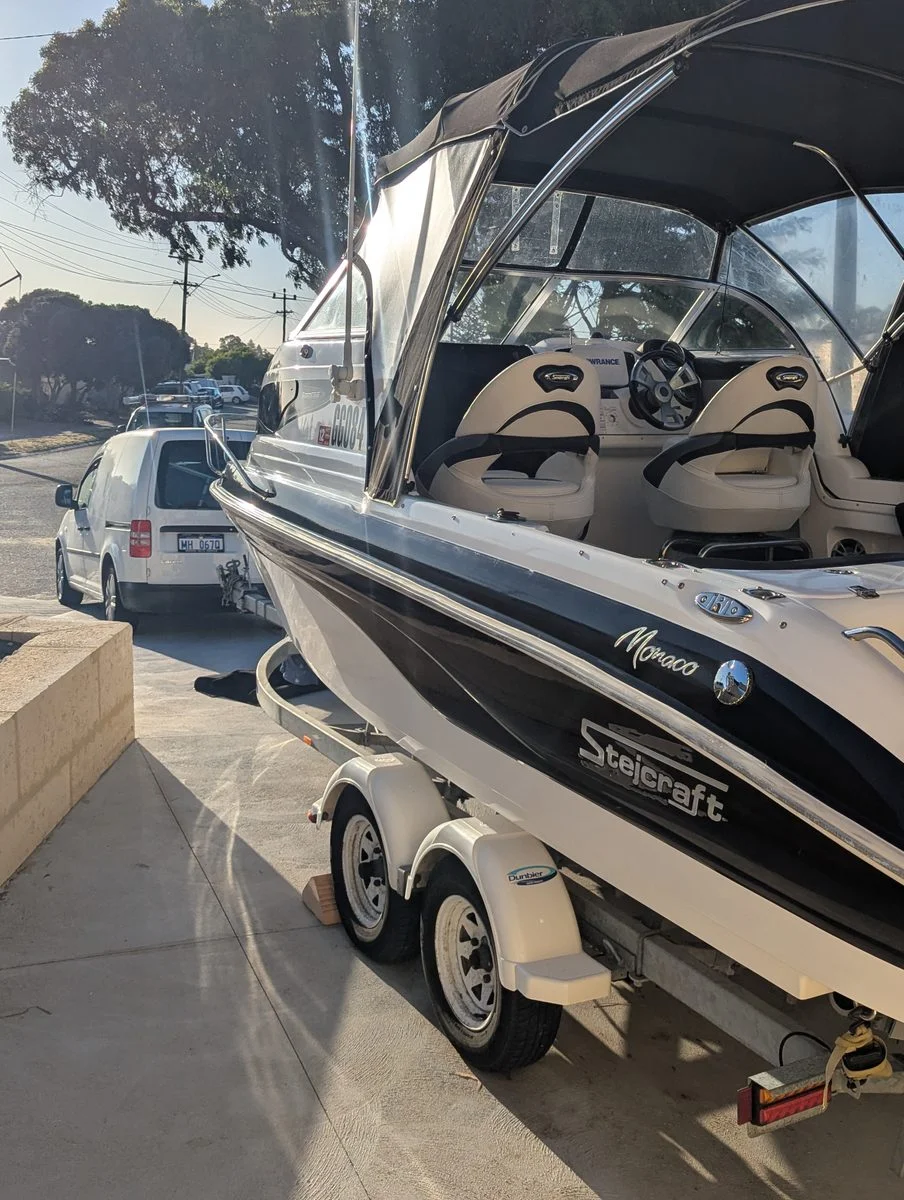
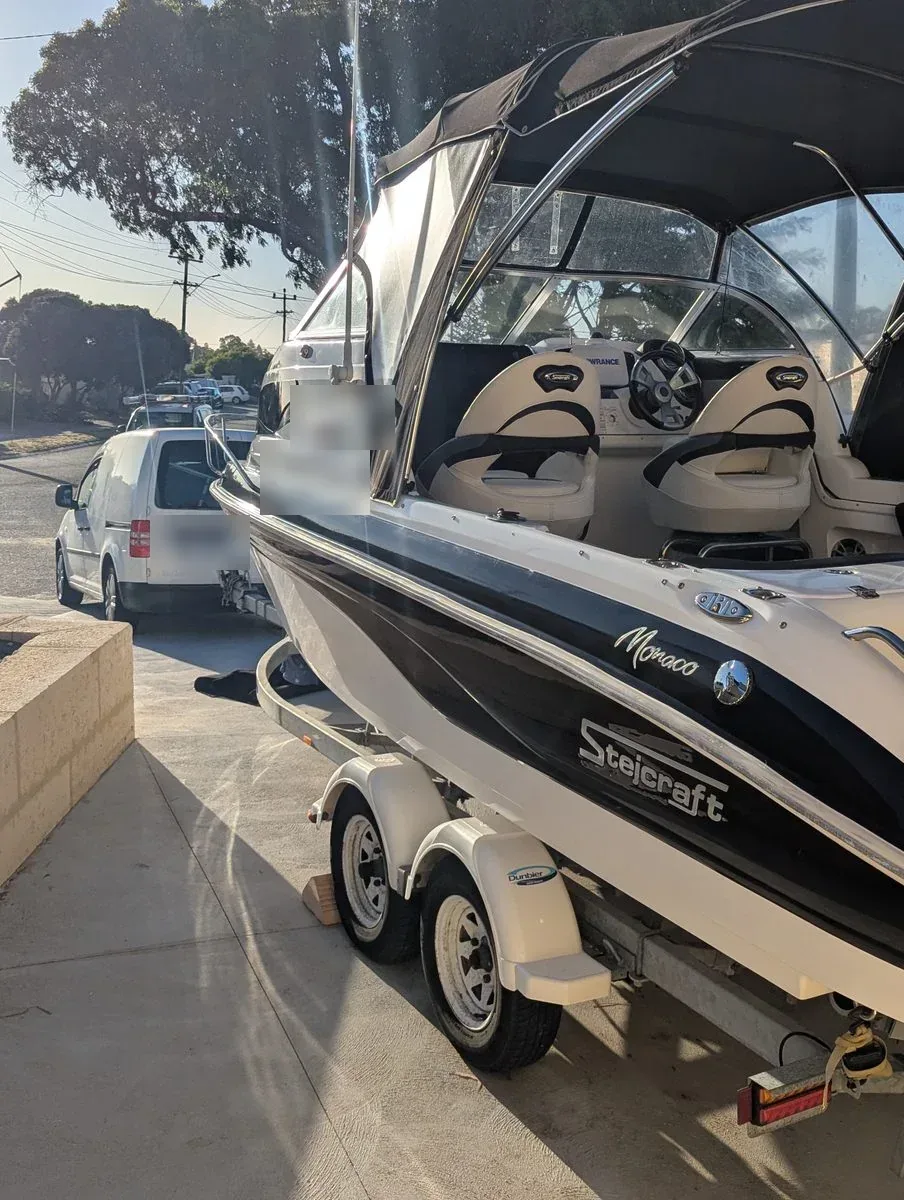
Boat page: add a boat photo row; stack service cards on phones
- Four boat photos under the service cards (Avante runabout, white
  cruiser, Steelcraft Monaco, green runabout)
- Registration numbers and a background van's plate blurred (nb-05,
  photo-29; also fixes them in the gallery)
- Service cards were a fixed 3-column inline grid; now 2 columns on
  tablets and 1 on phones
- Teak card icon swapped for one that renders on Windows

Changed region(s): [[0.2788, 0.3083, 0.4336, 0.4317], [0.1549, 0.4317, 0.2788, 0.4933]]

diff --git a/boat-detailing.html b/boat-detailing.html
@@ -166,6 +166,11 @@
 @media(min-width:769px){.hamburger{display:none}}
 @media(max-width:860px){.hull-cta-in{flex-direction:column}}
 @media(max-width:600px){.hub-grid{grid-template-columns:1fr 1fr}}
+.bt-grid{display:grid;grid-template-columns:repeat(3,1fr);gap:1.25rem;margin-top:2.5rem}
+.bt-photos{display:grid;grid-template-columns:repeat(4,1fr);gap:1rem;margin-top:2.5rem}
+.bt-photos img{width:100%;aspect-ratio:3/4;object-fit:cover;border-radius:12px;border:1px solid var(--border)}
+@media(max-width:980px){.bt-grid{grid-template-columns:1fr 1fr}}
+@media(max-width:768px){.bt-grid{grid-template-columns:1fr}.bt-photos{grid-template-columns:1fr 1fr}}
 </style>
 </head>
 <body>
@@ -208,13 +213,19 @@
   <div class="eyebrow">What We Do</div>
   <h2 class="sh2">Marine Detailing Services</h2>
   <p class="ssub">From runabouts to cruisers, we restore and protect your vessel — wherever it's berthed across Perth and Mandurah.</p>
-  <div style="display:grid;grid-template-columns:repeat(3,1fr);gap:1.25rem;margin-top:2.5rem">
+  <div class="bt-grid">
     <div class="card rv"><div style="font-size:1.5rem;width:50px;height:50px;background:var(--accent-dim);border:1px solid rgba(37,99,235,.2);border-radius:10px;display:flex;align-items:center;justify-content:center;margin-bottom:1rem">⚓</div><div style="font-family:var(--display);font-size:1.15rem;font-weight:800;margin-bottom:.4rem">Hull Polish &amp; Cut</div><p style="font-size:.84rem;color:var(--muted);line-height:1.7;font-weight:300">Machine cut and polish to remove oxidation, scuffs and waterline staining — restoring deep gloss to gelcoat and topsides.</p></div>
-    <div class="card rv"><div style="font-size:1.5rem;width:50px;height:50px;background:var(--accent-dim);border:1px solid rgba(37,99,235,.2);border-radius:10px;display:flex;align-items:center;justify-content:center;margin-bottom:1rem">🪵</div><div style="font-family:var(--display);font-size:1.15rem;font-weight:800;margin-bottom:.4rem">Teak Restoration</div><p style="font-size:.84rem;color:var(--muted);line-height:1.7;font-weight:300">Cleaning, brightening and oiling of teak decks and trim to bring back natural colour and protect against the elements.</p></div>
+    <div class="card rv"><div style="font-size:1.5rem;width:50px;height:50px;background:var(--accent-dim);border:1px solid rgba(37,99,235,.2);border-radius:10px;display:flex;align-items:center;justify-content:center;margin-bottom:1rem">🌳</div><div style="font-family:var(--display);font-size:1.15rem;font-weight:800;margin-bottom:.4rem">Teak Restoration</div><p style="font-size:.84rem;color:var(--muted);line-height:1.7;font-weight:300">Cleaning, brightening and oiling of teak decks and trim to bring back natural colour and protect against the elements.</p></div>
     <div class="card rv"><div style="font-size:1.5rem;width:50px;height:50px;background:var(--accent-dim);border:1px solid rgba(37,99,235,.2);border-radius:10px;display:flex;align-items:center;justify-content:center;margin-bottom:1rem">🧪</div><div style="font-family:var(--display);font-size:1.15rem;font-weight:800;margin-bottom:.4rem">Tannin &amp; Stain Treatment</div><p style="font-size:.84rem;color:var(--muted);line-height:1.7;font-weight:300">Acid treatment for tannin staining from the Swan River and Peel Inlet, plus rust and waterline stain removal.</p></div>
     <div class="card rv"><div style="font-size:1.5rem;width:50px;height:50px;background:var(--accent-dim);border:1px solid rgba(37,99,235,.2);border-radius:10px;display:flex;align-items:center;justify-content:center;margin-bottom:1rem">✨</div><div style="font-family:var(--display);font-size:1.15rem;font-weight:800;margin-bottom:.4rem">Gelcoat Oxidation Removal</div><p style="font-size:.84rem;color:var(--muted);line-height:1.7;font-weight:300">Multi-stage compounding and polishing to revive chalky, faded gelcoat on hull and superstructure.</p></div>
     <div class="card rv"><div style="font-size:1.5rem;width:50px;height:50px;background:var(--accent-dim);border:1px solid rgba(37,99,235,.2);border-radius:10px;display:flex;align-items:center;justify-content:center;margin-bottom:1rem">🛡</div><div style="font-family:var(--display);font-size:1.15rem;font-weight:800;margin-bottom:.4rem">Marine Ceramic &amp; Sealant</div><p style="font-size:.84rem;color:var(--muted);line-height:1.7;font-weight:300">Marine-grade ceramic coating and sealants for lasting UV, salt and stain protection — less cleaning between trips.</p></div>
     <div class="card rv"><div style="font-size:1.5rem;width:50px;height:50px;background:var(--accent-dim);border:1px solid rgba(37,99,235,.2);border-radius:10px;display:flex;align-items:center;justify-content:center;margin-bottom:1rem">🧽</div><div style="font-family:var(--display);font-size:1.15rem;font-weight:800;margin-bottom:.4rem">Interior &amp; Cabin Detail</div><p style="font-size:.84rem;color:var(--muted);line-height:1.7;font-weight:300">Full interior clean — vinyl, upholstery, carpets and compartments — for a fresh, hygienic cabin.</p></div>
+  </div>
+  <div class="bt-photos">
+    <img src="images/photo-08.webp" alt="Avante runabout with a navy hull detailed in Perth by Mobile Masters Detailing" loading="lazy">
+    <img src="images/nb-01.webp" alt="White cruiser after a hull polish in Perth" loading="lazy">
+    <img src="images/nb-05.webp" alt="Steelcraft Monaco boat detailed in Perth by Mobile Masters Detailing" loading="lazy">
+    <img src="images/photo-29.webp" alt="Green runabout on its trailer after a detail in Perth" loading="lazy">
   </div>
 </div></section>
 <section class="sec" style="background:var(--ink)"><div class="wrap">
